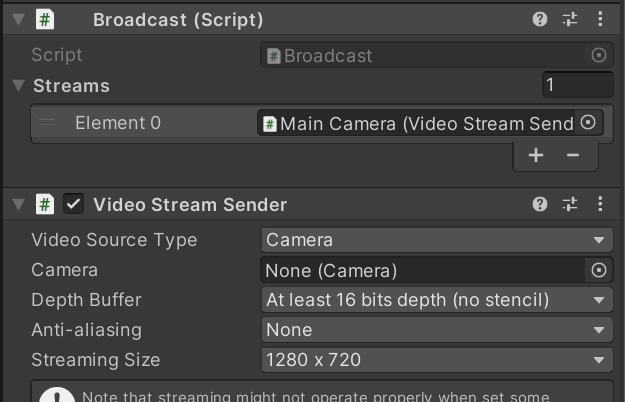
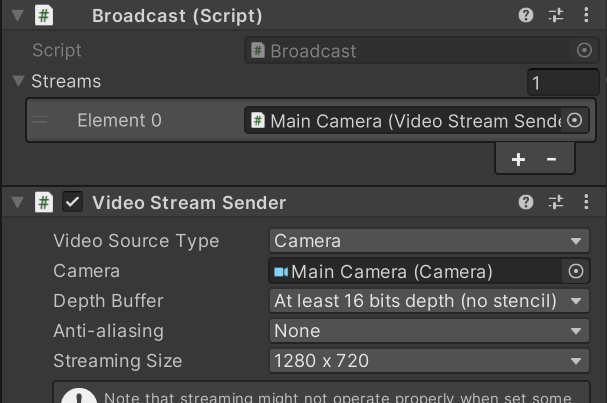
chore: Update WebRTC package version 3.0.0-pre.4 (#837)
* fix docs

* fix for tutorial

(cherry picked from commit 727cc6956fb1ab1ea10d950cc3a3c5da7817772a)

* upgrade WebRTC package version 3.0.0-pre.4

* update unity project

* workaround

* workaround

* workaround

* workaround

* fix

* workaround

diff --git a/Tests/Runtime/SignalingHandlerTest.cs b/Tests/Runtime/SignalingHandlerTest.cs
@@ -172,7 +172,7 @@ namespace Unity.RenderStreaming.RuntimeTest
 
         //todo:: crash in dispose process on standalone linux
         [UnityTest, Timeout(10000)]
-        [UnityPlatform(exclude = new[] { RuntimePlatform.LinuxPlayer })]
+        [UnityPlatform(exclude = new[] { RuntimePlatform.LinuxPlayer, RuntimePlatform.Android })]
         public IEnumerator ReceiveStream()
         {
             string connectionId = "12345";
@@ -228,7 +228,7 @@ namespace Unity.RenderStreaming.RuntimeTest
         [UnityPlatform(exclude = new[]
         {
             RuntimePlatform.WindowsEditor, RuntimePlatform.OSXEditor, RuntimePlatform.LinuxEditor,
-            RuntimePlatform.LinuxPlayer, RuntimePlatform.IPhonePlayer
+            RuntimePlatform.LinuxPlayer, RuntimePlatform.IPhonePlayer, RuntimePlatform.Android
         })]
         public IEnumerator SetCodec()
         {
@@ -444,7 +444,7 @@ namespace Unity.RenderStreaming.RuntimeTest
         // todo:: Crash in dispose process on Linux standalone
         // todo:: Timeout error on iPhonePlayer
         [UnityTest, Timeout(10000)]
-        [UnityPlatform(exclude = new[] { RuntimePlatform.LinuxPlayer, RuntimePlatform.IPhonePlayer })]
+        [UnityPlatform(exclude = new[] { RuntimePlatform.LinuxPlayer, RuntimePlatform.IPhonePlayer, RuntimePlatform.Android })]
         public IEnumerator ReceiveStream()
         {
             string connectionId = "12345";
@@ -566,7 +566,7 @@ namespace Unity.RenderStreaming.RuntimeTest
         }
 
         [UnityTest, Timeout(10000)]
-        [UnityPlatform(exclude = new[] { RuntimePlatform.LinuxPlayer })]
+        [UnityPlatform(exclude = new[] { RuntimePlatform.LinuxPlayer, RuntimePlatform.Android })]
         public IEnumerator AssignTransceivers()
         {
             string connectionId = "12345";
@@ -676,7 +676,7 @@ namespace Unity.RenderStreaming.RuntimeTest
         [UnityPlatform(exclude = new[]
         {
             RuntimePlatform.WindowsEditor, RuntimePlatform.OSXEditor, RuntimePlatform.LinuxEditor,
-            RuntimePlatform.LinuxPlayer
+            RuntimePlatform.LinuxPlayer, RuntimePlatform.Android
         })]
         public IEnumerator SetCodecOnSender()
         {
@@ -782,7 +782,7 @@ namespace Unity.RenderStreaming.RuntimeTest
         [UnityPlatform(exclude = new[]
         {
             RuntimePlatform.WindowsEditor, RuntimePlatform.OSXEditor, RuntimePlatform.LinuxEditor,
-            RuntimePlatform.LinuxPlayer
+            RuntimePlatform.LinuxPlayer, RuntimePlatform.Android
         })]
         public IEnumerator SetCodecOnReceiver()
         {

diff --git a/Tests/Runtime/RenderStreamingInternalTest.cs b/Tests/Runtime/RenderStreamingInternalTest.cs
@@ -330,7 +330,7 @@ namespace Unity.RenderStreaming.RuntimeTest
 
         //todo:: crash in dispose process on standalone linux
         [UnityTest, Timeout(10000)]
-        [UnityPlatform(exclude = new[] { RuntimePlatform.LinuxPlayer })]
+        [UnityPlatform(exclude = new[] { RuntimePlatform.LinuxPlayer, RuntimePlatform.Android })]
         public IEnumerator OnAddReceiverPrivateMode()
         {
             MockSignaling.Reset(true);
@@ -403,7 +403,7 @@ namespace Unity.RenderStreaming.RuntimeTest
 
         //todo:: crash in dispose process on standalone linux
         [UnityTest, Timeout(10000)]
-        [UnityPlatform(exclude = new[] { RuntimePlatform.LinuxPlayer })]
+        [UnityPlatform(exclude = new[] { RuntimePlatform.LinuxPlayer, RuntimePlatform.Android })]
         public IEnumerator OnAddReceiverPublicMode()
         {
             MockSignaling.Reset(false);

diff --git a/Runtime/Scripts/RenderStreaming.cs b/Runtime/Scripts/RenderStreaming.cs
@@ -12,6 +12,7 @@ using UnityEditor;
 
 namespace Unity.RenderStreaming
 {
+    [AddComponentMenu("Render Streaming/Render Streaming")]
     public sealed class RenderStreaming : MonoBehaviour
     {
 #pragma warning disable 0649

diff --git a/Documentation~/create-scene.md b/Documentation~/create-scene.md
@@ -31,7 +31,7 @@ Add a [**Video Stream Sender**](video-streaming.html#videostreamsenderapiunityre
 
 ![Add VideoStreamSender component](images/add_videostreamsender_component.png)
 
-Assign the [**Video Stream Sender**](video-streaming.html#videostreamsenderapiunityrenderstreamingvideostreamsenderhtml-component) component to the **Broadcast** component property.
+Assign the [**Video Stream Sender**](video-streaming.html#videostreamsenderapiunityrenderstreamingvideostreamsenderhtml-component) component to the **Broadcast** component property. And set camera
 
 ![Assign VideoStreamSender component to streams](images/assign_videostreamsender_to_streams.png)
 

diff --git a/CHANGELOG.md b/CHANGELOG.md
@@ -4,12 +4,12 @@ All notable changes to com.unity.renderstreaming package will be documented in t
 The format is based on [Keep a Changelog](http://keepachangelog.com/en/1.0.0/)
 and this project adheres to [Semantic Versioning](http://semver.org/spec/v2.0.0.html).
 
-## [3.1.0-exp.5] - 2022-12-22
+## [3.1.0-exp.5] - 2023-1-16
 
 ### Changed
 
 - Upgrade the version of Input System package `1.4.4`.
-- Upgrade the version of WebRTC package `3.0.0-pre.2`.
+- Upgrade the version of WebRTC package `3.0.0-pre.4`.
 
 ### Fixed
 
